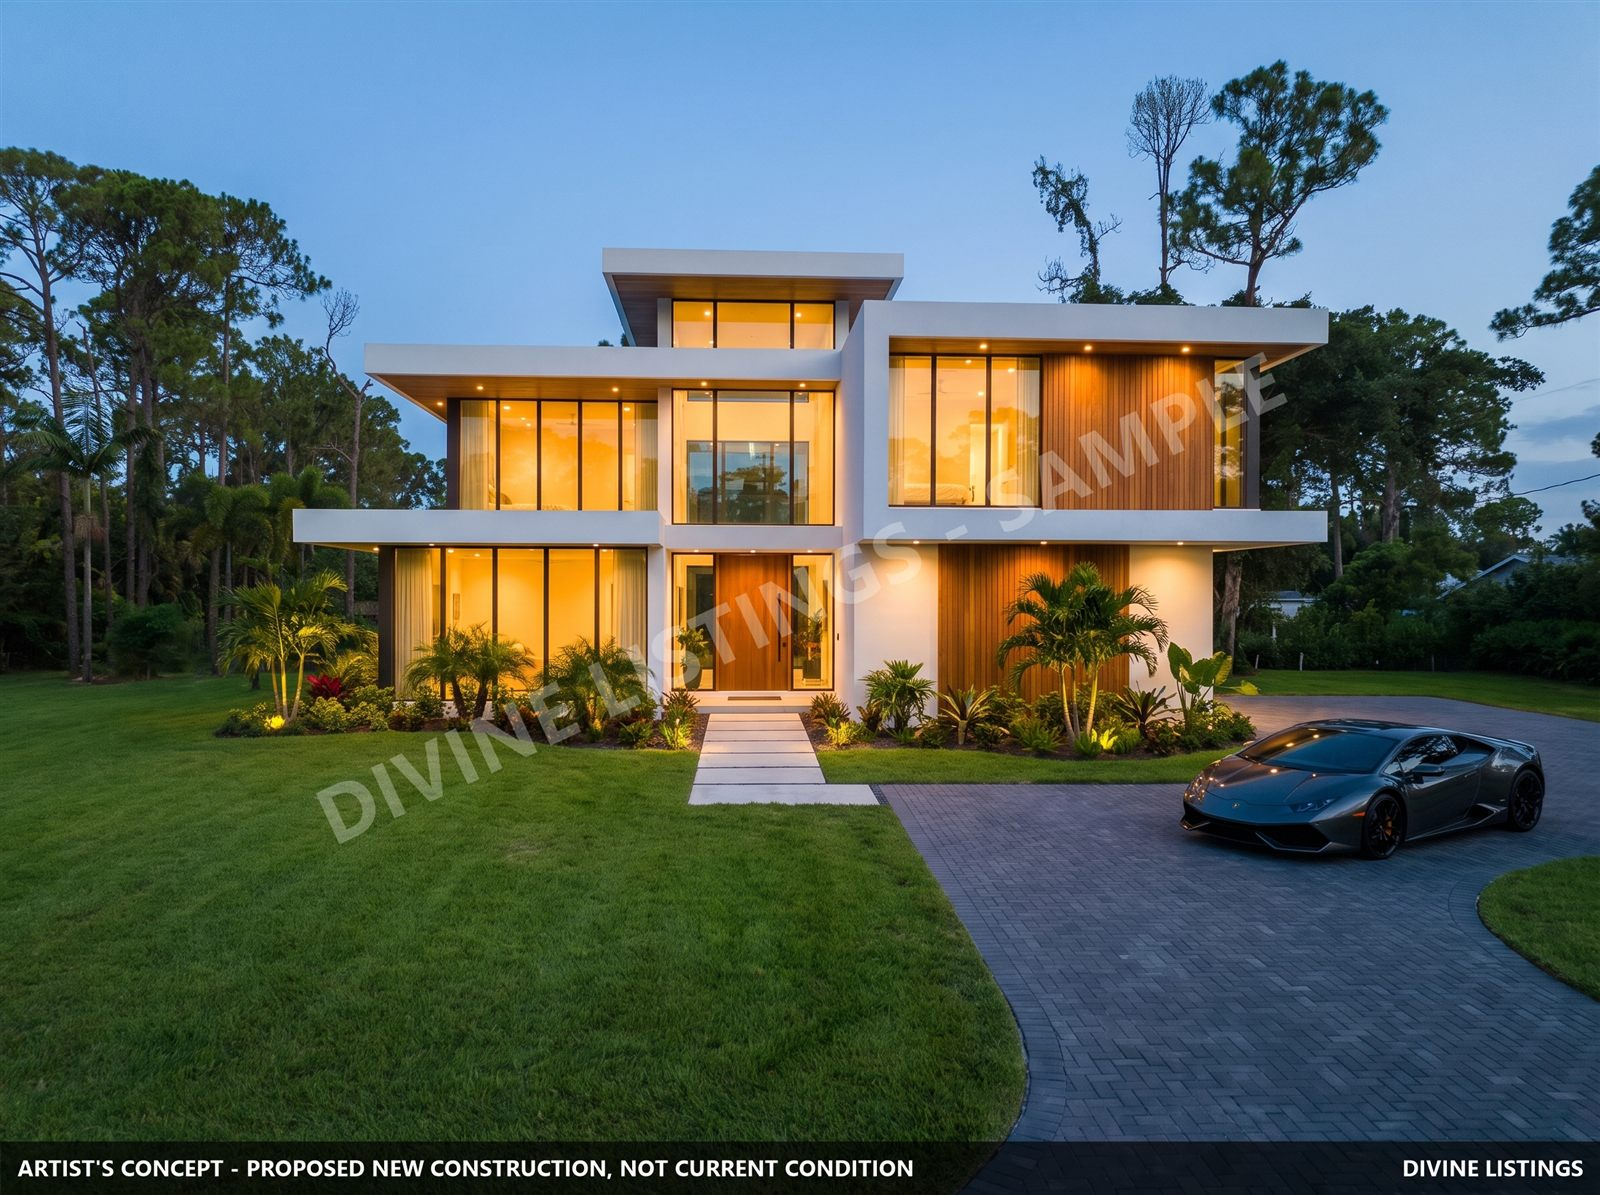
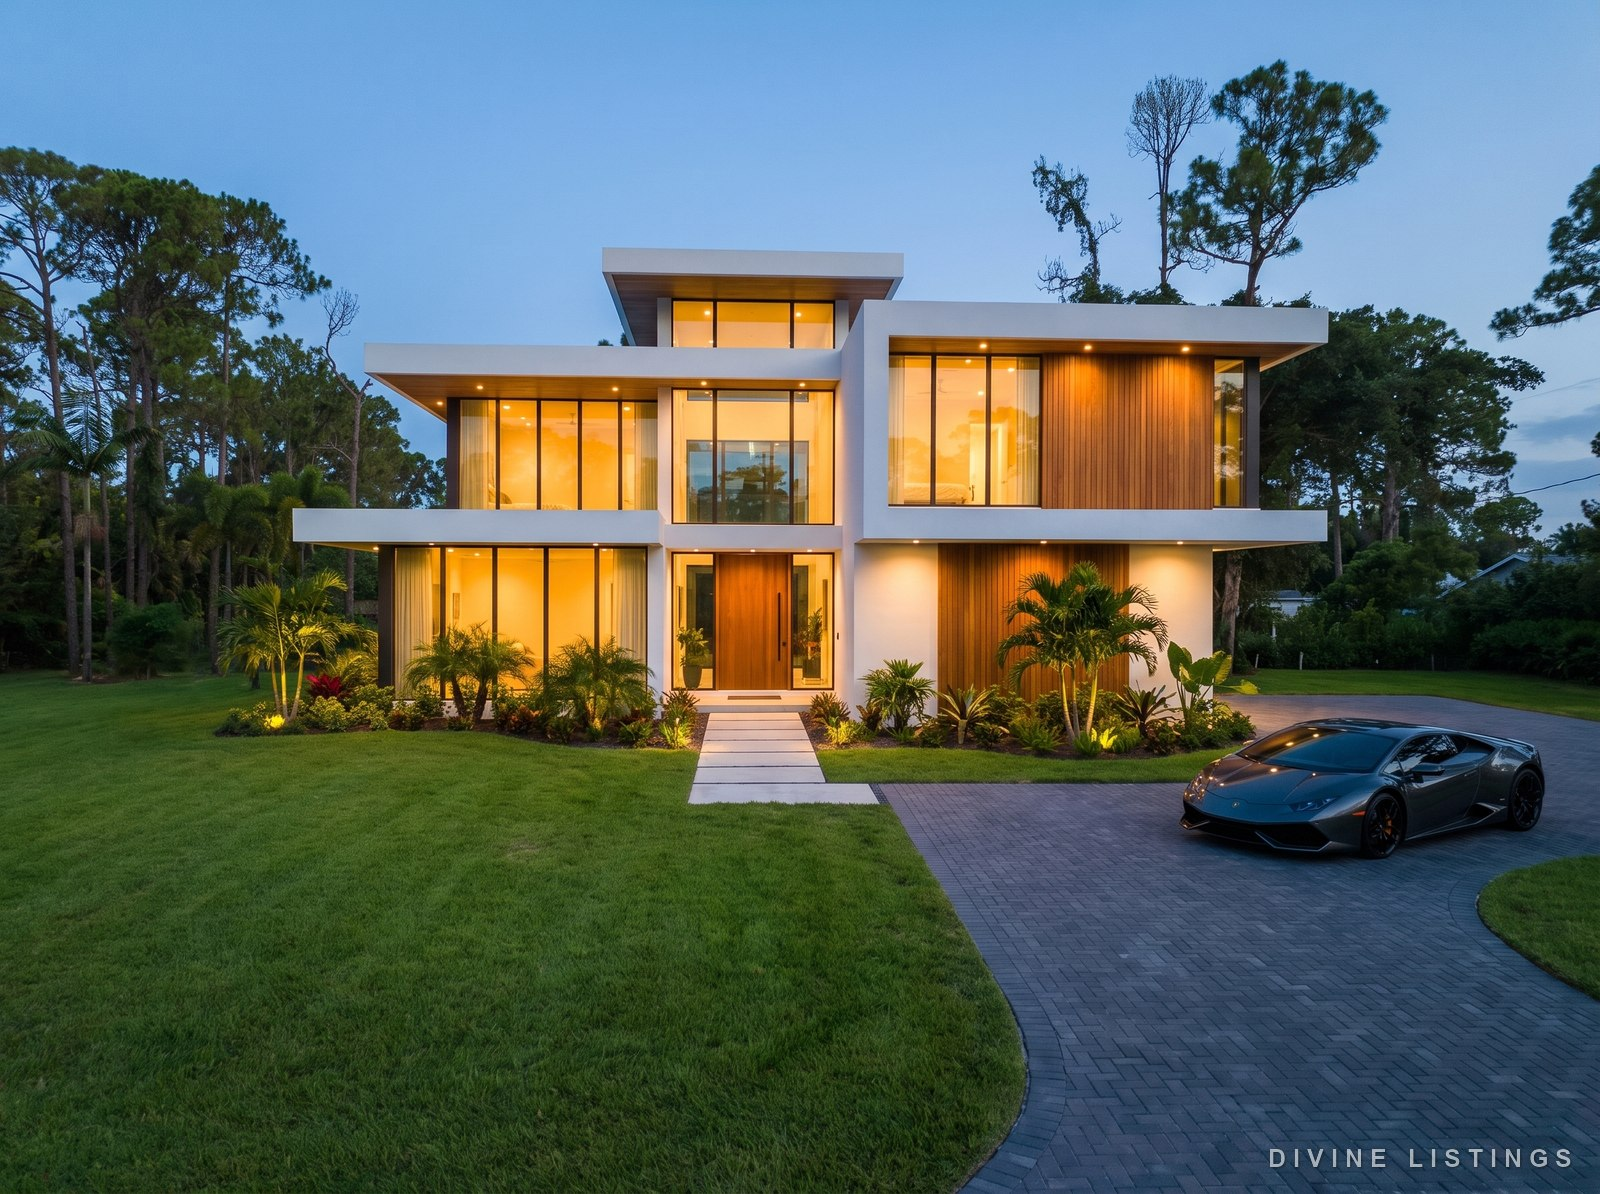
AURA: clean premium assets - corner wordmark replaces tiled watermark on site, letterbox bars cropped from before photo, equal-height hero pair + gold hairlines + elegant disclosure caption

diff --git a/index.html b/index.html
@@ -23,7 +23,10 @@ body{background:#1a1c1f}
 .hero-min h1{margin:0 auto;max-width:19ch}
 .hero-min p.sub{margin:18px auto 0;max-width:54ch;font-size:1.05rem;opacity:.92}
 .hero-demo{margin:46px auto 6px;max-width:1000px}
-.hero-demo-hint{text-align:center;color:var(--muted);font-size:.85rem;margin-top:12px;letter-spacing:.05em}
+.hero-demo figure img{aspect-ratio:4/3;object-fit:cover;width:100%;height:100%}
+.hero-demo figure{border-color:rgba(217,164,65,.22);border-radius:18px;box-shadow:0 22px 70px rgba(0,0,0,.5),0 0 0 1px rgba(255,255,255,.03)}
+.hero-demo-hint{text-align:center;color:var(--muted);font-size:.85rem;margin-top:14px;letter-spacing:.05em}
+.fine-caption{text-align:center;margin-top:8px;font-size:.68rem;letter-spacing:.22em;text-transform:uppercase;color:rgba(154,161,171,.62)}
 .twins{display:grid;grid-template-columns:1fr 1fr;gap:26px;margin:42px 0 10px}
 @media(max-width:760px){.twins{grid-template-columns:1fr}}
 .twin{position:relative;display:block;height:340px;border-radius:18px;overflow:hidden;text-decoration:none;box-shadow:0 10px 40px rgba(0,0,0,.35);transition:transform .25s ease}
@@ -70,6 +73,7 @@ body{background:#1a1c1f}
       <figure class="vision"><img src="assets/dream-front.jpg" alt="Full Makeover concept — proposed new construction on the same lot"><figcaption>The vision</figcaption></figure>
     </div>
     <div class="hero-demo-hint">Same lot, same angle &mdash; re-imagined from the ground up. That's the Full Makeover.</div>
+    <div class="fine-caption">Artist's concept &mdash; proposed new construction, not current condition</div>
   </div>
 </section>
 
